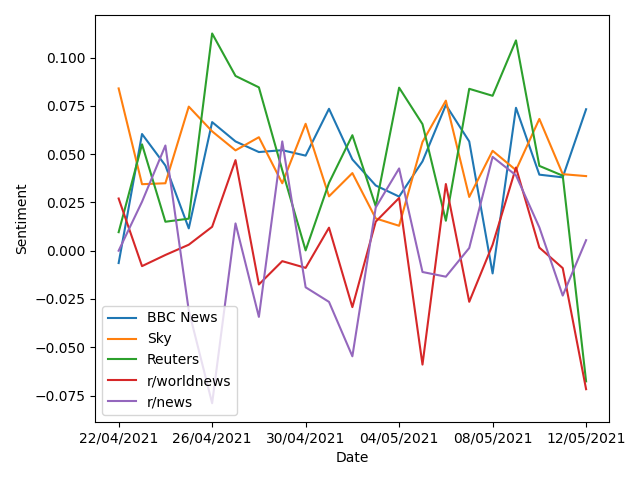
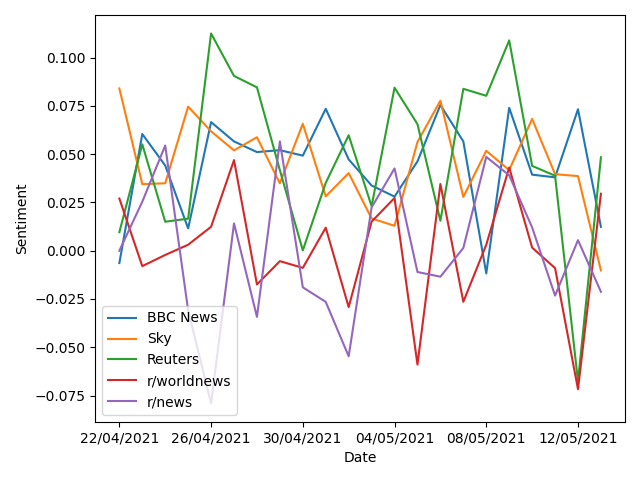
Automatic update (gitControl.py)

diff --git a/README.md b/README.md
@@ -3,7 +3,7 @@
 World news sentiment data, updated at 07:00 daily.
 
 **Started:** `22/04/2021`<br>
-**Updated:** `12/05/2021, 07:00:44`<br>
+**Updated:** `13/05/2021, 07:00:38`<br>
 **Sources:** `BBC News, Sky, Reuters, r/worldnews, r/news`
 
 <img src="https://user-images.githubusercontent.com/25552804/115932698-55adef00-a485-11eb-82bb-2265c0821ca0.png" width="20%" height="20%">

diff --git a/docs/index.md b/docs/index.md
@@ -3,7 +3,7 @@
 World news sentiment data, updated at 07:00 daily.
 
 **Started:** `22/04/2021`<br>
-**Updated:** `12/05/2021, 07:00:44`<br>
+**Updated:** `13/05/2021, 07:00:38`<br>
 **Sources:** `BBC News, Sky, Reuters, r/worldnews, r/news`
 
 <img src="https://user-images.githubusercontent.com/25552804/115932698-55adef00-a485-11eb-82bb-2265c0821ca0.png" width="20%" height="20%">
